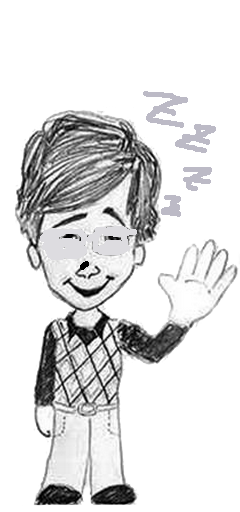
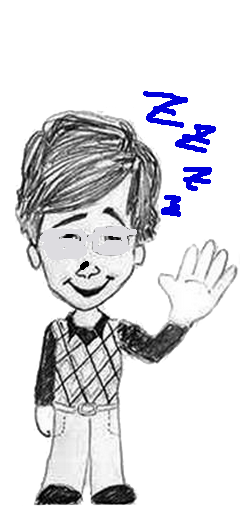
Drobný update alpha grafiky a disablování tlačítek

Changed region(s): [[0.5833, 0.1562, 0.9042, 0.375], [0.6708, 0.375, 0.7583, 0.4375]]

diff --git a/js/jadernak2.js b/js/jadernak2.js
@@ -114,7 +114,7 @@ var jadernak = {
 				}
 				else
 				{
-					document.getElementById("activites_id").innerHTML+='<div class="col-xs-4"><button type="button" class="btn btn-default navbar-btn btn-block" >'+Activites[i].Name+'INACTIVE'+'</button> </div>';
+					document.getElementById("activites_id").innerHTML+='<div class="col-xs-4"><button type="button" class="btn btn-default navbar-btn btn-block disabled="disabled"" >'+Activites[i].Name+'</button> </div>';
 				}
 			};
 	},
@@ -148,11 +148,11 @@ var jadernak = {
 				{
 					if(j==Subjects[i].req.length)
 					{
-						document.getElementById("subjects_id").innerHTML+='<div class="col-xs-4"><button type="button" class=class="btn btn-lg btn-default btn-block" onClick="jadernak.onSubject(\''+Subjects[i].name+'\')" >'+Subjects[i].name+'</button> </div>';
+						document.getElementById("subjects_id").innerHTML+='<div class="col-xs-4"><button type="button" class=class="btn btn-primary btn-lg" onClick="jadernak.onSubject(\''+Subjects[i].name+'\')" ><b>'+Subjects[i].name+'</b></button> </div>';
 					}
 					else
 					{
-						document.getElementById("subjects_id").innerHTML+='<div class="col-xs-4"><button type="button" class=class="btn btn-lg btn-default btn-block">'+Subjects[i].name+' NOT REQ'+'</button> </div>';			
+						document.getElementById("subjects_id").innerHTML+='<div class="col-xs-4"><button type="button" class=class="btn btn-primary btn-lg disabled="disabled""><b>'+Subjects[i].name+'</b> nedostupný-nesplněné požadavky'+'</button> </div>';			
 					}					
 					count++;
 					shown=1;	
@@ -160,7 +160,7 @@ var jadernak = {
 
 				if(count<5 && shown==0 && this.Week <=Subjects[i].week_end)
 				{
-					document.getElementById("subjects_id").innerHTML+='<div class="col-xs-4"><button type="button" class=class="btn btn-lg btn-default btn-block" >'+Subjects[i].name+' NOT TIME'+'</button> </div>';
+					document.getElementById("subjects_id").innerHTML+='<div class="col-xs-4"><button type="button" class=class="btn btn-primary btn-lg disabled="disabled"" ><b>'+Subjects[i].name+'</b> dostupný od: '+Subjects[i].week_start+' týdne'+'</button> </div>';
 					count++;
 				}
 			};
